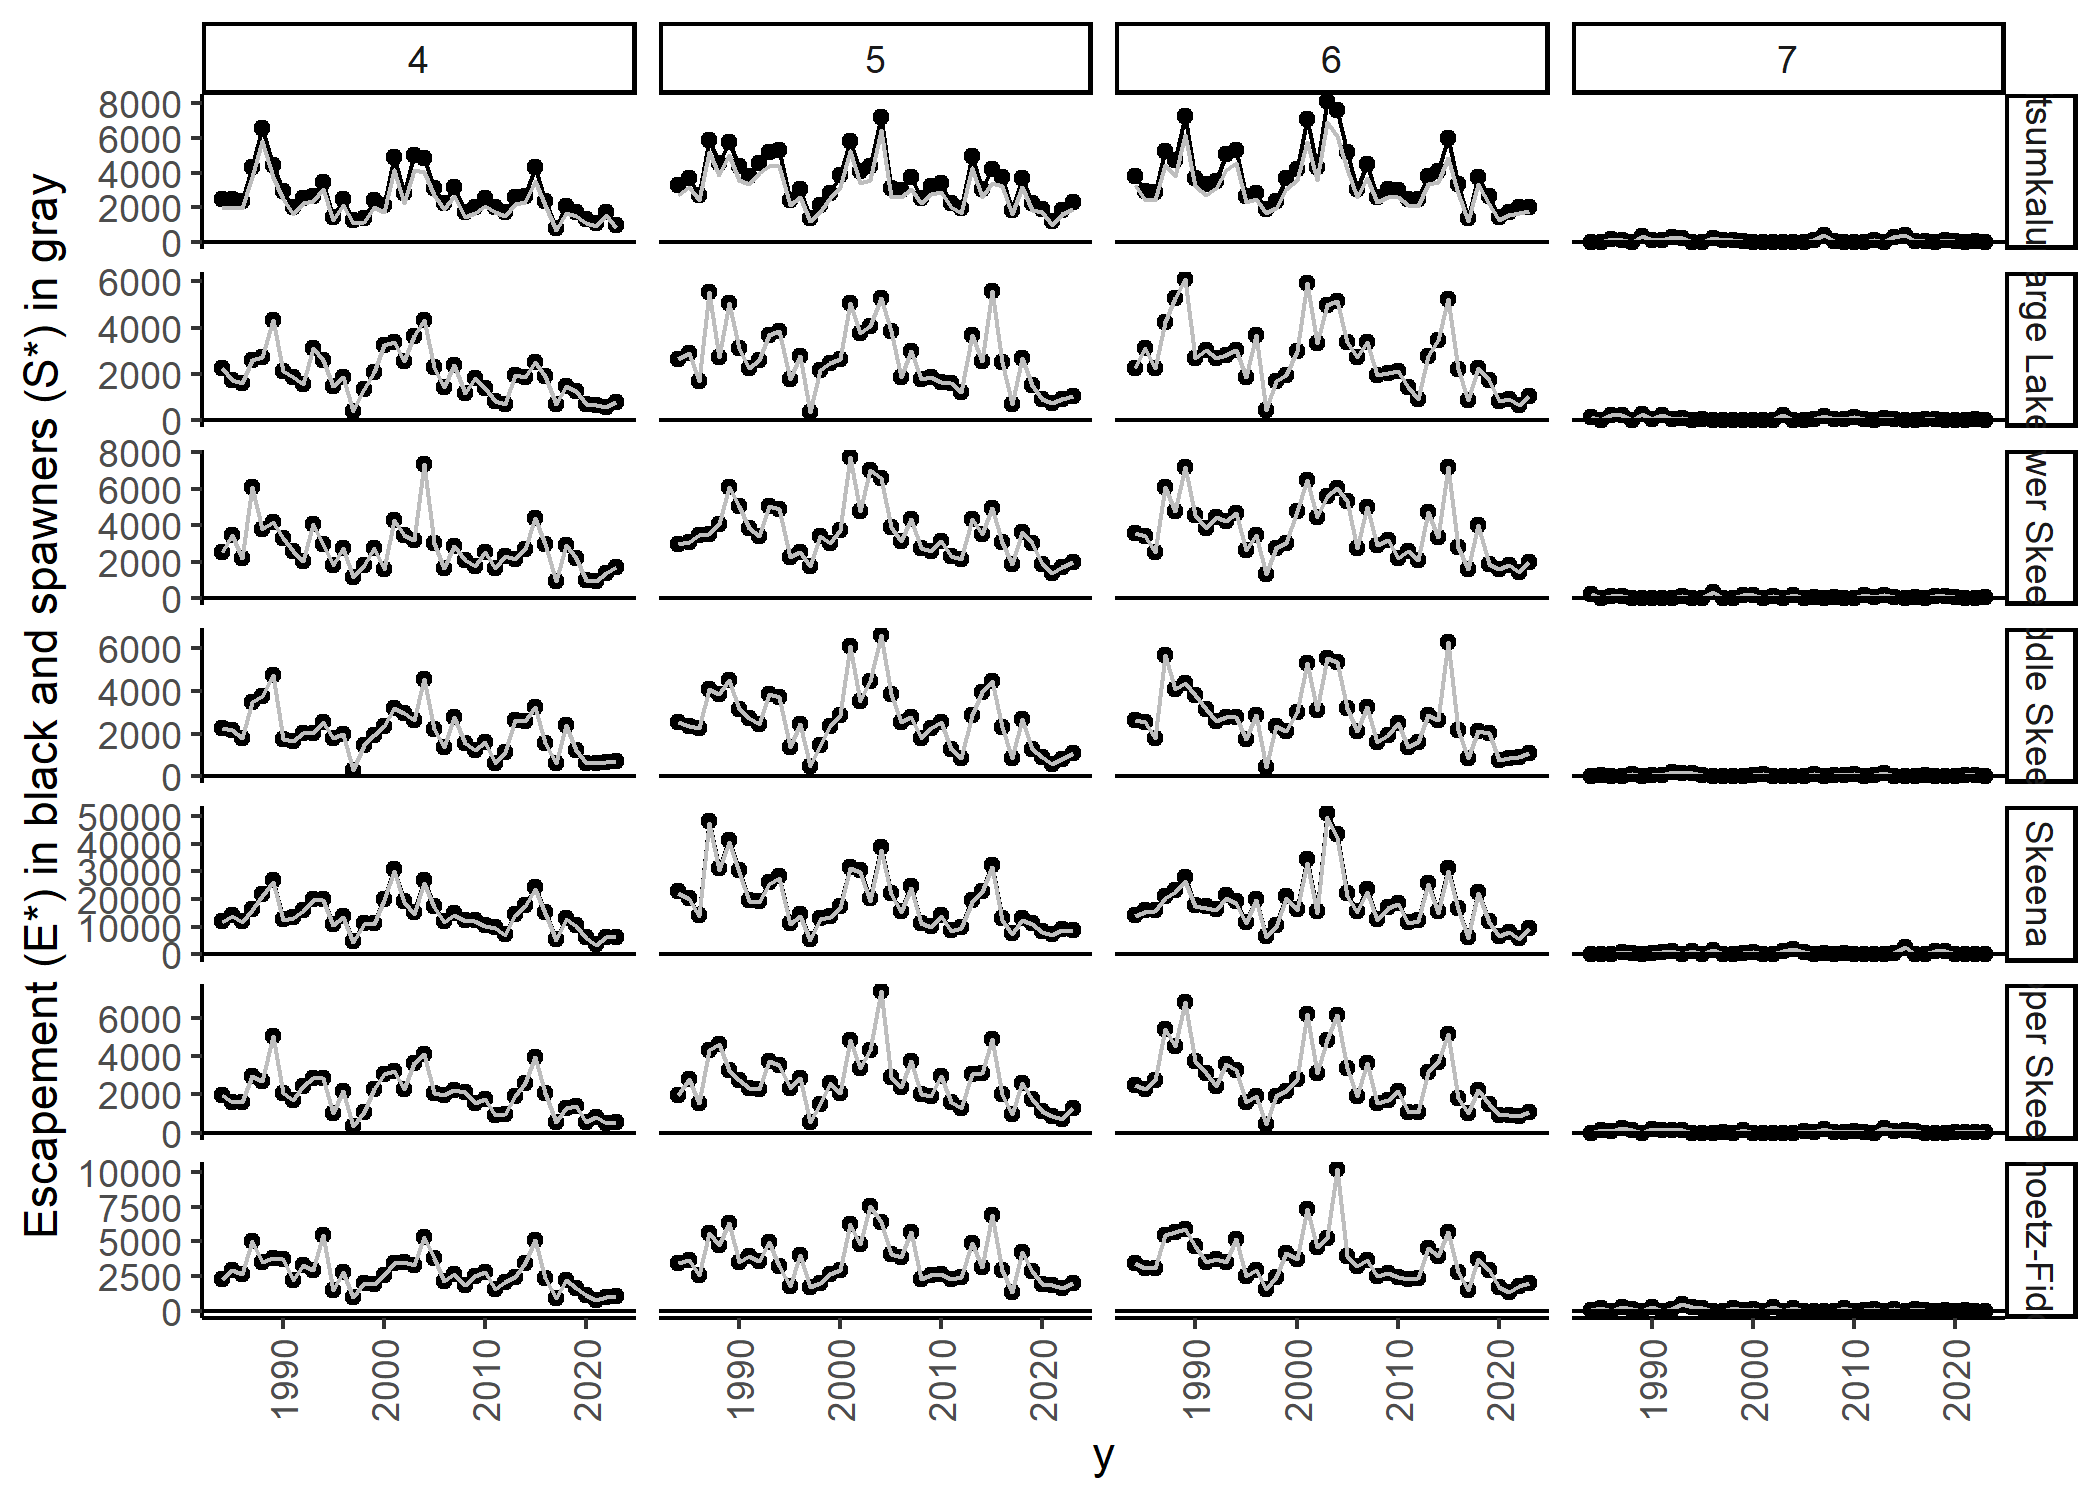
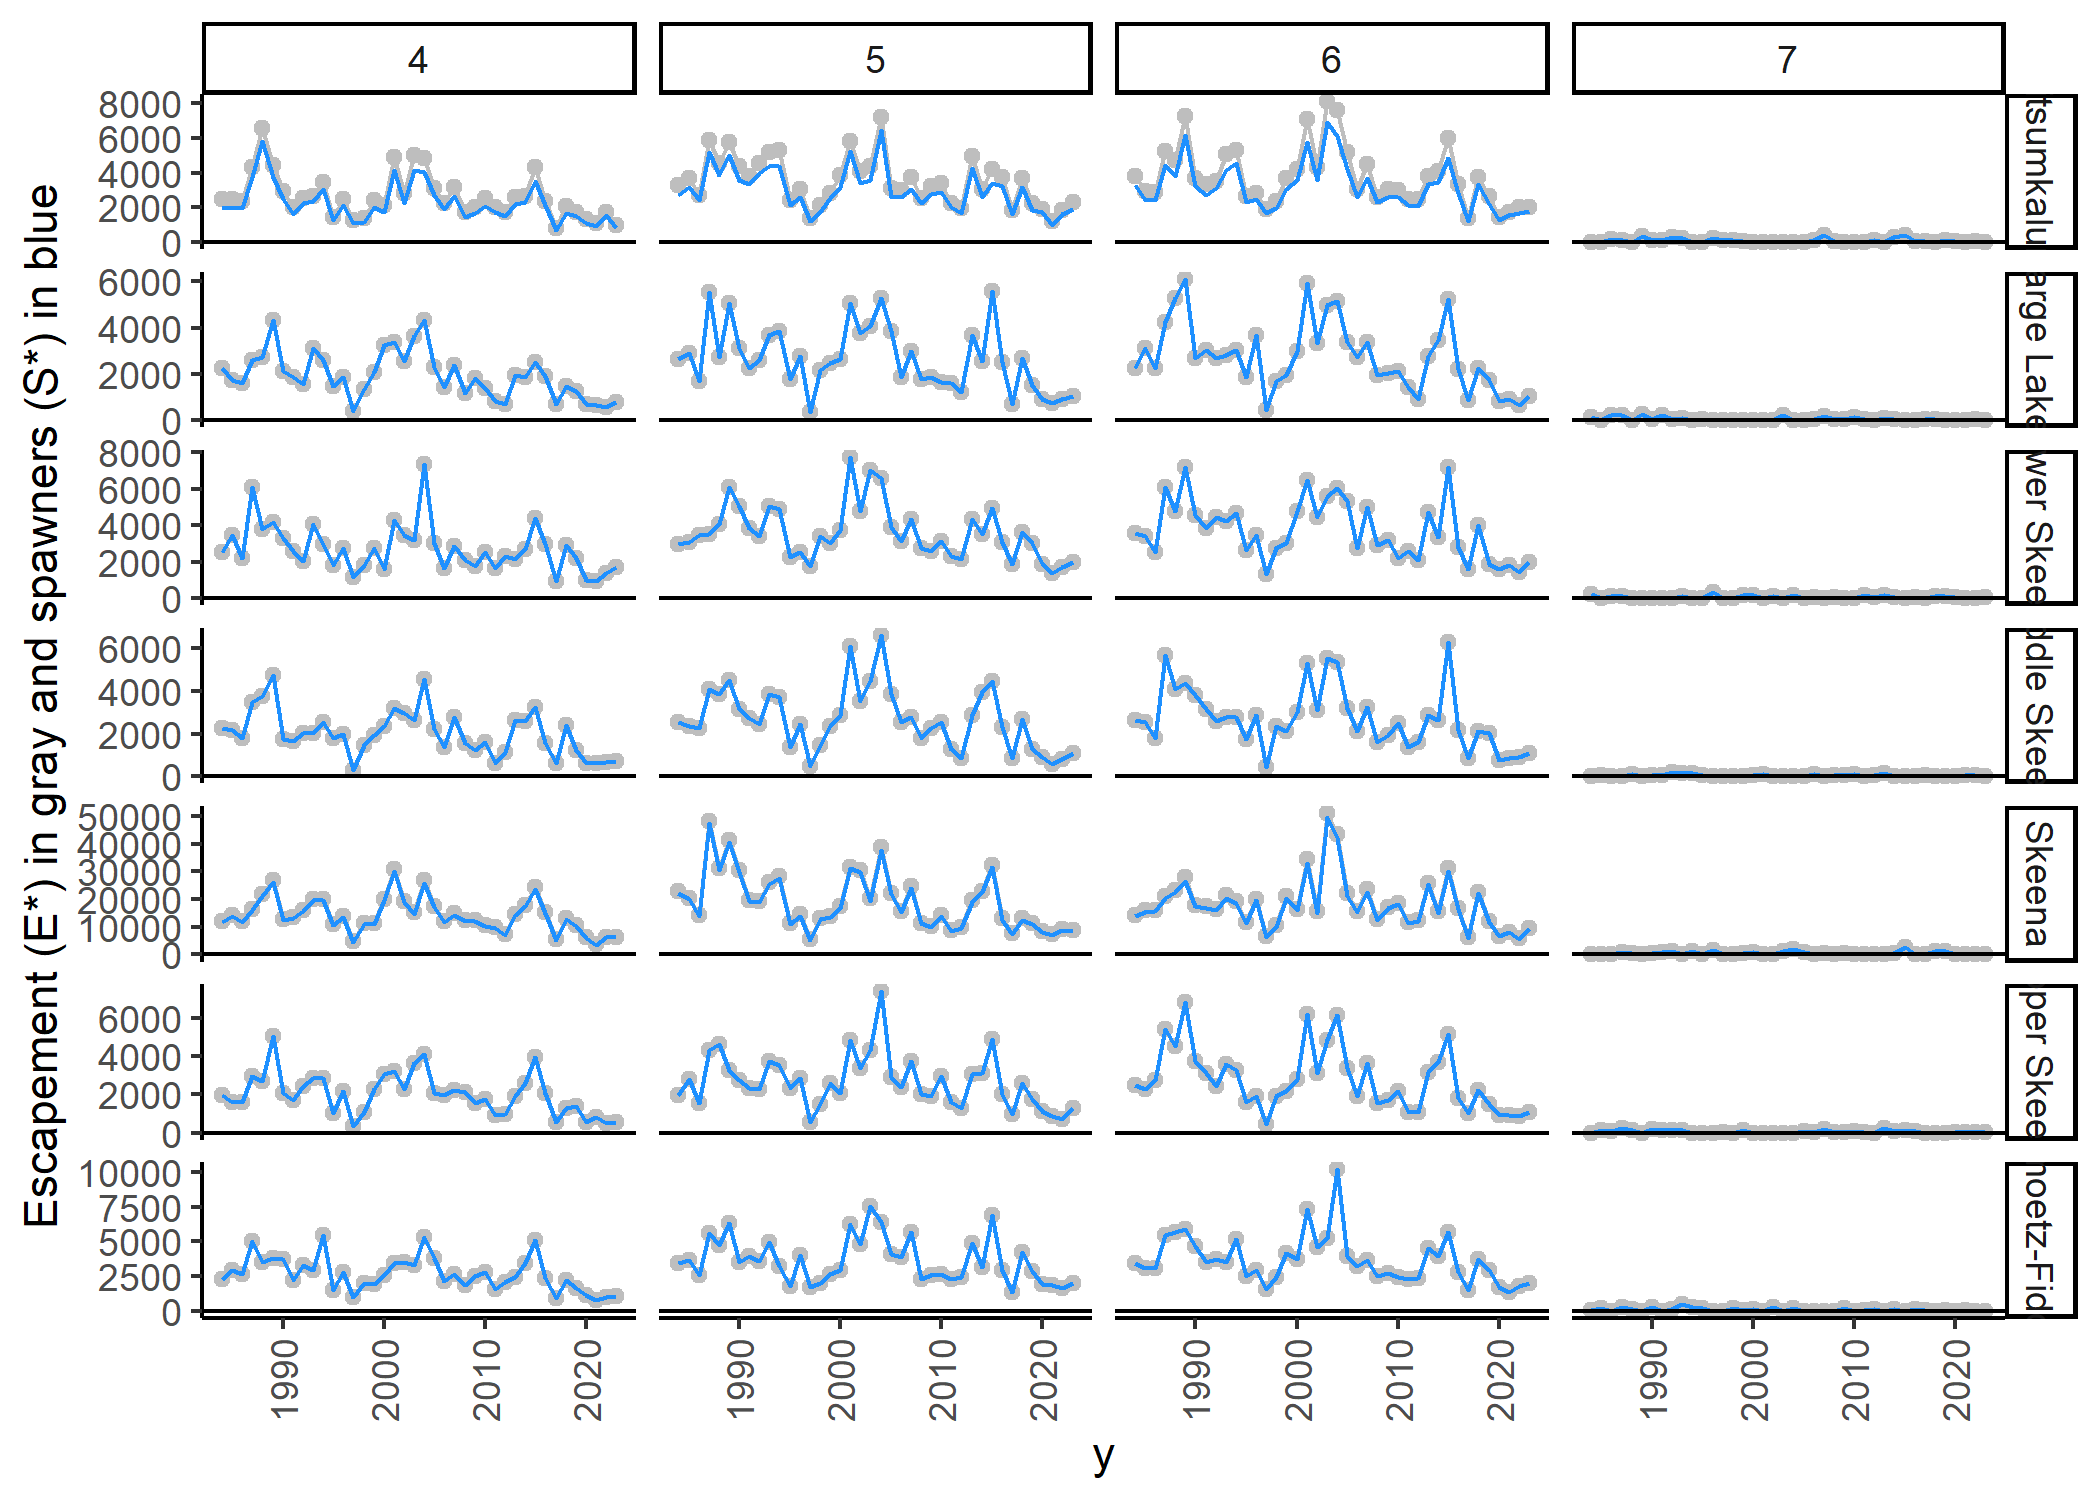
Update readme figures

diff --git a/README.md b/README.md
@@ -149,8 +149,8 @@ Get age-specific escapement by using age proportions.
 E_star <- get_E_star(E = E$E, omega = omega$omega)
 
 ggplot( E_star$df, aes(y = E_star, x = y, group = i)) +
-  geom_point() + 
-  geom_line() + 
+  geom_point( colour="gray") + 
+  geom_line( colour="gray") + 
   geom_hline(aes(yintercept=0)) + 
   facet_grid( i ~ a , scales = "free_y") + 
   ylab("Escapement (E*)") +
@@ -172,12 +172,12 @@ B_star[,4] <- 0 # make age 7 brood = 0 so you don't get negative fish in S_star
 S_star <- get_S_star(E_star = E_star$E_star, B_star = B_star)
 
 ggplot( E_star$df, aes(y = E_star, x = y, group = i)) +
-  geom_point() + 
-  geom_line() + 
-  geom_line(data = S_star$df, aes(y = S_star, x = y, group = i), colour="gray") +
+  geom_point(colour="gray") + 
+  geom_line(colour="gray") + 
+  geom_line(data = S_star$df, aes(y = S_star, x = y, group = i), colour="dodgerblue") +
   geom_hline(aes(yintercept=0)) + 
   facet_grid( i ~ a , scales = "free_y") + 
-  ylab("Escapement (E*) in black and spawners (S*) in gray") +
+  ylab("Escapement (E*) in gray and spawners (S*) in blue") +
   theme_classic() +
   theme(axis.text.x = element_text(angle=90, vjust=0.5))
 ```
@@ -197,13 +197,13 @@ H_star[,4] <- 0 # make age 7 hatchery 0 to avoid negative wild spawner values.
 W_star <- get_W_star( S_star = S_star$S_star, H_star = H_star) 
 
 ggplot( E_star$df, aes(y = E_star, x = y, group = i)) +
-  geom_point() + 
-  geom_line() + 
-  geom_line(data = S_star$df, aes(y = S_star, x = y, group = i), colour="gray") +
-  geom_line(data = W_star$df, aes(y = W_star, x = y, group = i), colour="dodgerblue") +
+  geom_point(colour="gray") + 
+  geom_line(colour="gray") + 
+  geom_line(data = S_star$df, aes(y = S_star, x = y, group = i), colour="dodgerblue") +
+  geom_line(data = W_star$df, aes(y = W_star, x = y, group = i), colour="firebrick") +
   geom_hline(aes(yintercept=0)) + 
   facet_grid( i ~ a , scales = "free_y") + 
-  ylab("Escapement (E*) in black, spawners (S*) in gray\n, and wild spawners (W*) in blue.") +
+  ylab("Escapement (E*) in gray, spawners (S*) in blue\n, and wild spawners (W*) in red.") +
   theme_classic() +
   theme(axis.text.x = element_text(angle=90, vjust=0.5))
 ```
